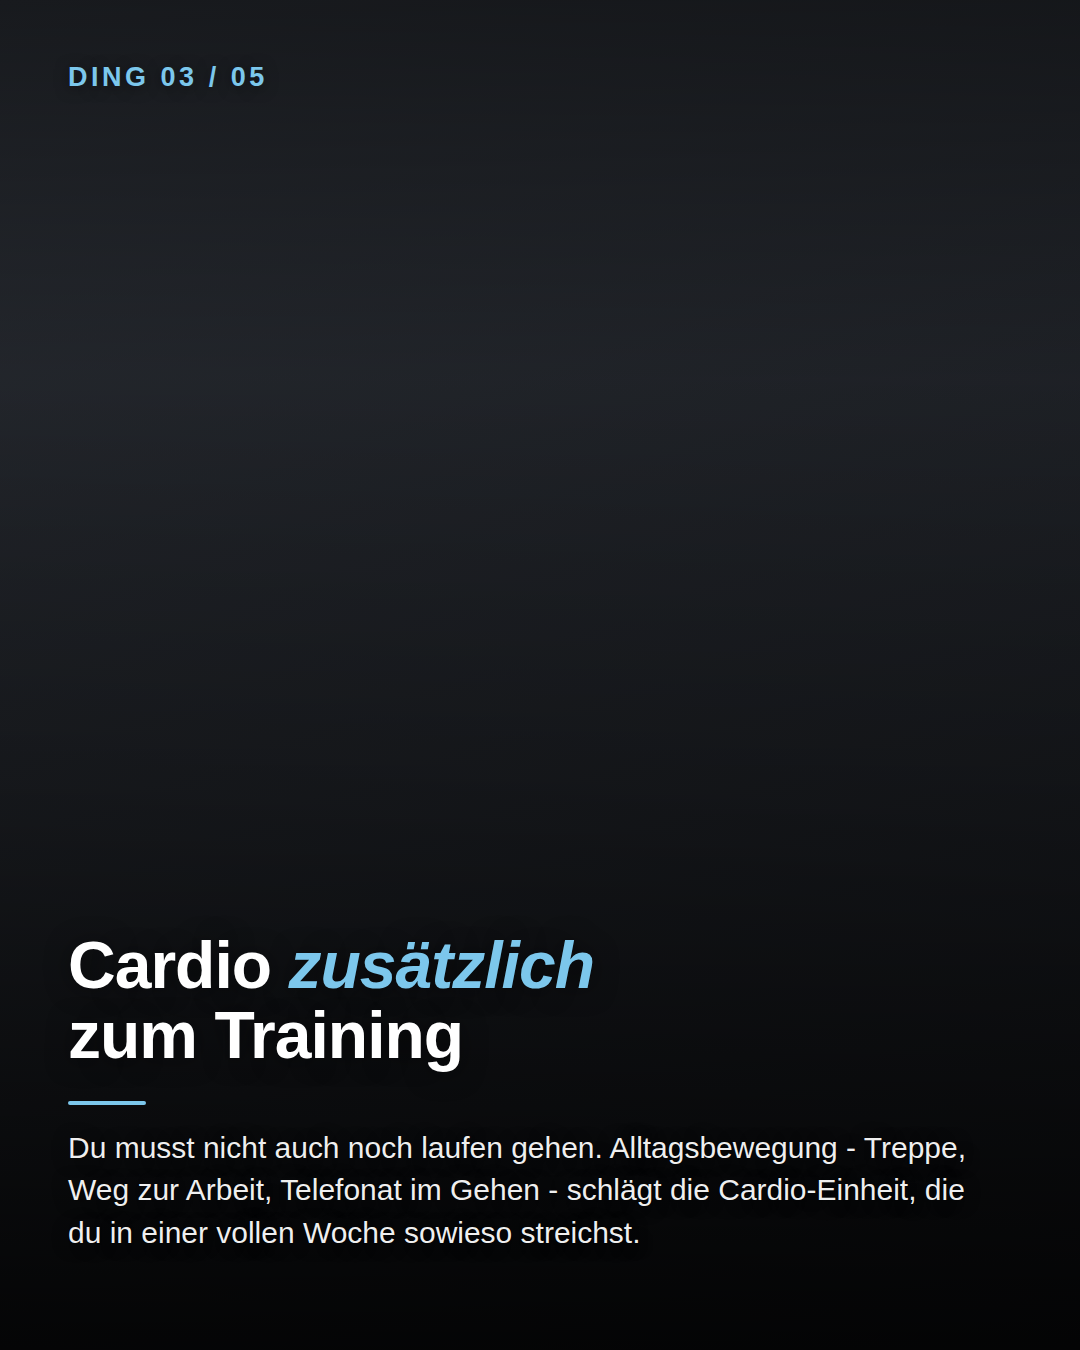
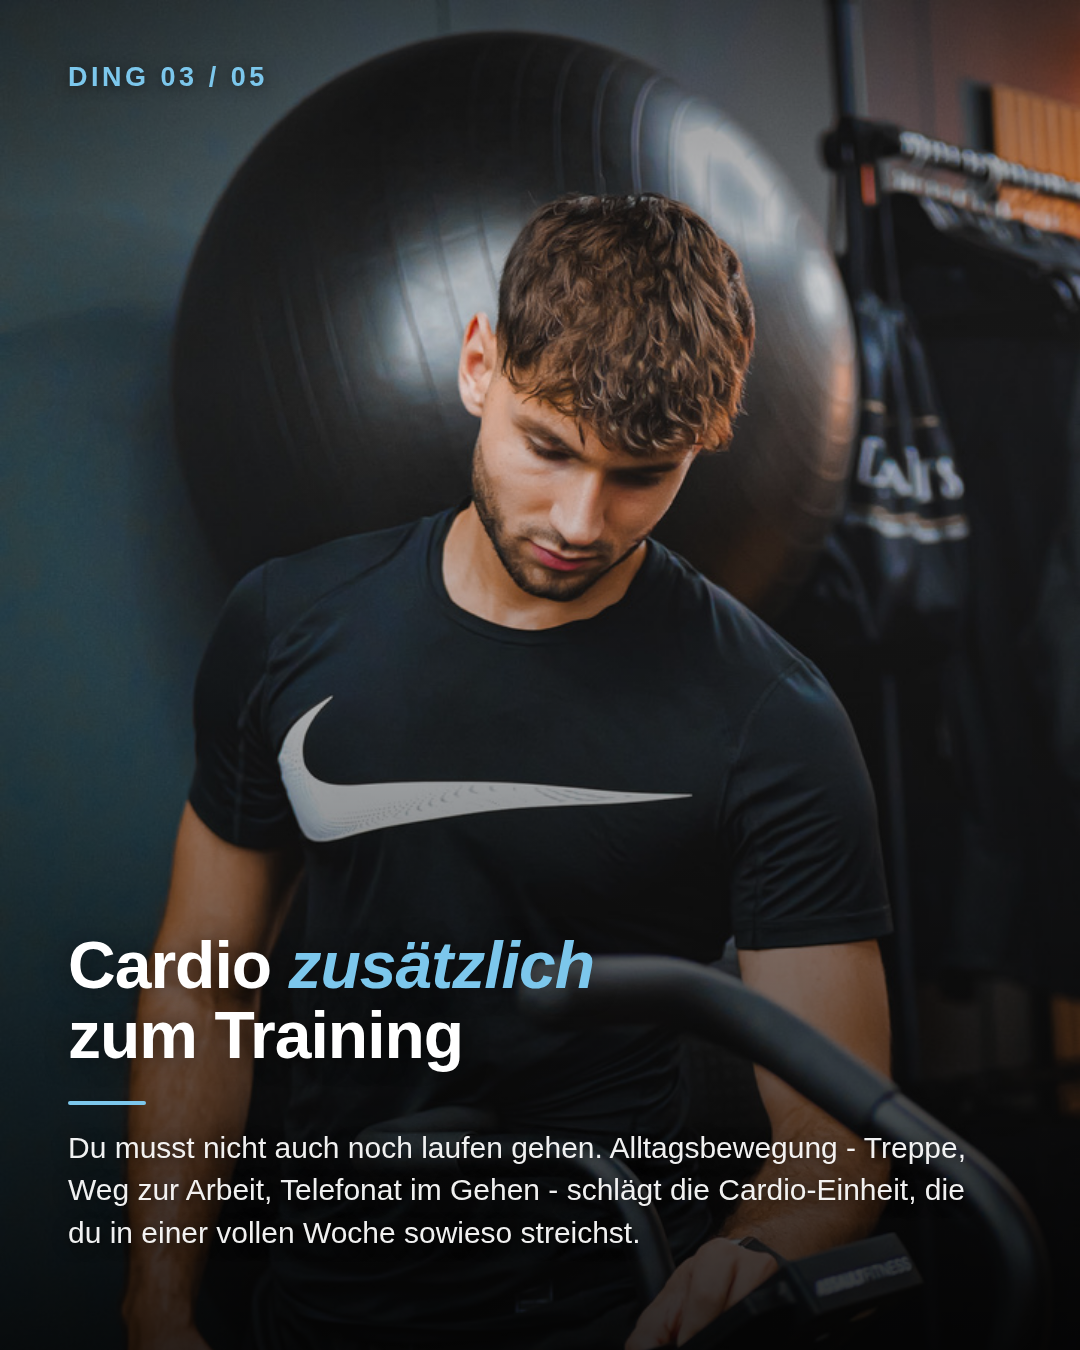
Post 1 und 3 bebildern, 13 von 17 Slides fertig
Vier Slides bleiben auf Platzhalter, weil unter den Bildern in ausreichender
Aufloesung kein Essens- oder Alltagsmotiv war: Timing, Meal Prep, Heisshunger
und Kleidungsdetail. _REVIEW.md benennt sie einzeln mit dem, was gebraucht
wird.

Claude-Session: https://claude.ai/code/session_017Ciokk7ytZTP3MQ9u57MkV

diff --git a/posts/2026-W35/_REVIEW.md b/posts/2026-W35/_REVIEW.md
@@ -29,9 +29,23 @@ Geduld. Keine Überschneidung mit deinem Referenz-Post.
 
 ## Verwendete Fotos
 
-**Keine.** Alle 17 Slides sind auf grauem Platzhalter gerendert. Was jeweils
-gebraucht wird, steht in jedem Post in der Slide-Tabelle. Sobald die Bildquelle
-steht (`config/photo-sources.md`), rendere ich neu.
+13 von 17 Slides sind bebildert, aus `assets/fotos/` (über GitHub hochgeladen).
+
+Von 110 hochgeladenen Dateien sind nur 18 groß genug für 1080×1350; der Rest
+sind verkleinerte Kopien mit 359×780 Pixeln. Das ist der Grund für die
+verbleibenden Lücken.
+
+**Noch ohne Foto — alles Essens- und Alltagsmotive:**
+
+| Post | Slide | Gebraucht wird |
+|---|---|---|
+| 1 | DING 01 Timing | Essen oder Shaker beiläufig, Uhr im Bild |
+| 1 | DING 04 Meal Prep | Eine Pfanne, eine Komponente |
+| 3 | ZEICHEN 02 Heißhunger | Ruhige Küche am Abend |
+| 3 | ZEICHEN 03 Waage/Kleidung | Hose oder Gürtel, Detailaufnahme |
+
+Diese vier rendern auf grauem Platzhalter, statt mit einem unpassenden Bild
+gefüllt zu werden.
 
 ## Was diesmal nicht gut lief
 
